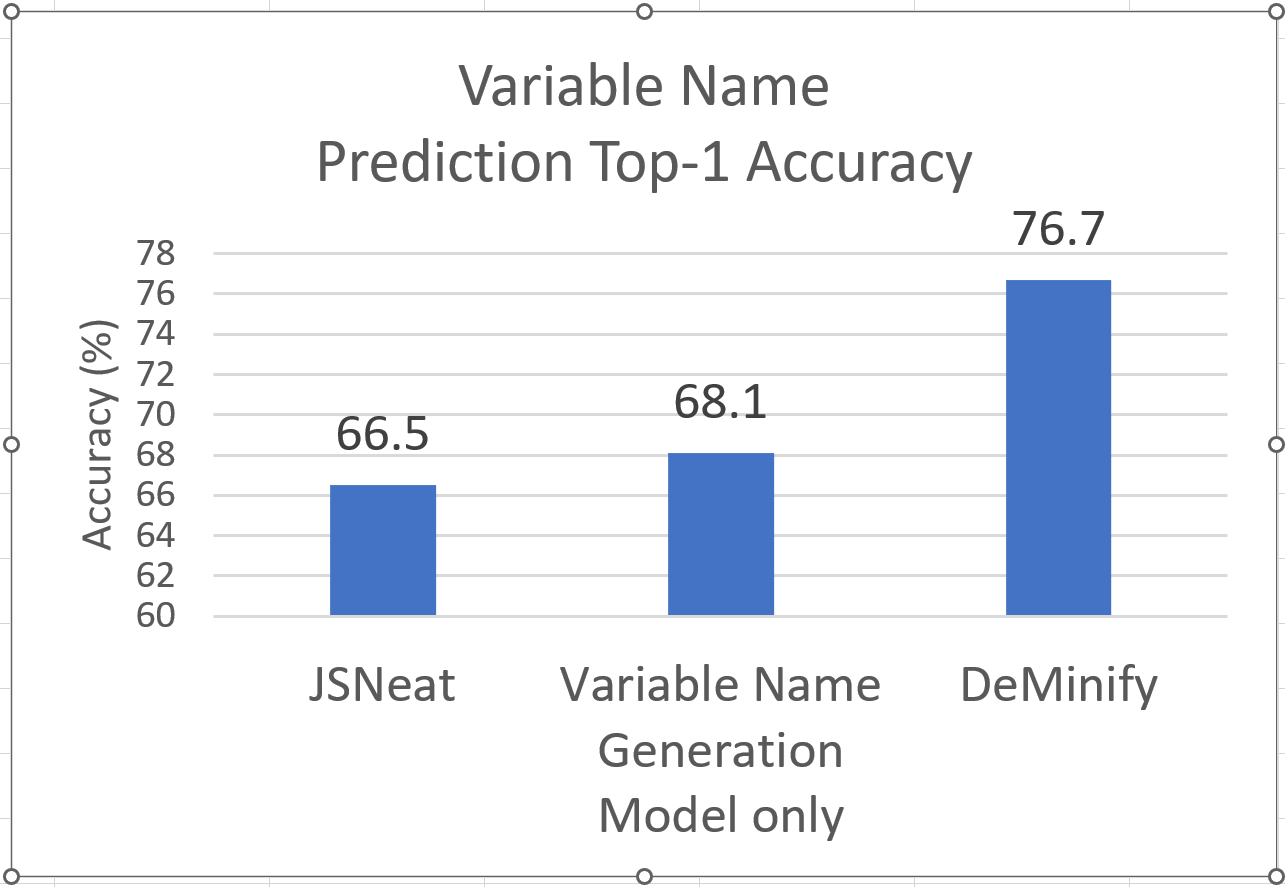
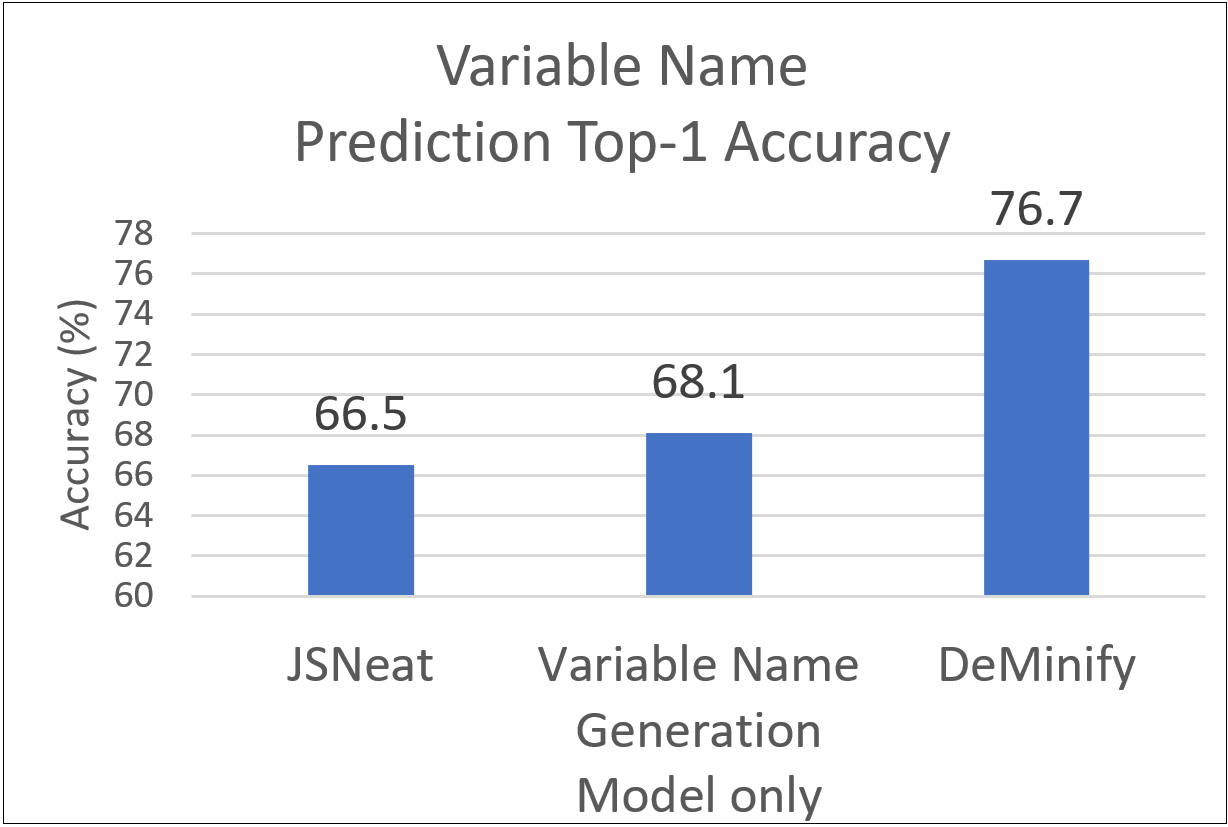
done with RQs

diff --git a/sections/models-result.tex b/sections/models-result.tex
@@ -1,22 +1,51 @@
 \subsubsection{Impact of Graph Models}
 \label{sec:models}
 
-\begin{figure}[thbp]
-\begin{center}
-\includegraphics[width=2.6in]{figures/sensi-models-name}
-\vspace{-8pt}
-\caption{RQ3. Impact of Graph Model on Variable Name Prediction}
-\label{models-name-result}
-{\bf L-GCN}: Label Graph Convolutional Network, {\bf EE-GCN}: Edge-Enhanced Graph Convolutional Network, {\bf GCNmf}: Graph Convolutional Network - Missing Features
-\end{center}
-\end{figure}
+%\begin{figure}[thbp]
+%\begin{center}
+%\includegraphics[width=2.6in]{figures/sensi-models-name}
+%\vspace{-8pt}
+%\caption{RQ3. Impact of Graph Model on Variable Name Prediction}
+%\label{models-name-result}
+%{\bf L-GCN}: Label Graph Convolutional Network, {\bf EE-GCN}: Edge-Enhanced Graph Convolutional Network, {\bf GCNmf}: Graph Convolutional Network - Missing Features
+%\end{center}
+%\end{figure}
 
-\begin{figure}[thbp]
-\begin{center}
-\includegraphics[width=2.6in]{figures/sensi-models-type}
-\vspace{-8pt}
-\caption{RQ3. Impact of Graph Model on Variable Type Prediction}
-\label{models-type-result}
-{\bf L-GCN}: Label Graph Convolutional Network, {\bf EE-GCN}: Edge-Enhanced Graph Convolutional Network, {\bf GCNmf}: Graph Convolutional Network - Missing Features
-\end{center}
-\end{figure}
+%\begin{figure}[thbp]
+%\begin{center}
+%\includegraphics[width=2.6in]{figures/sensi-models-type}
+%\vspace{-8pt}
+%\caption{RQ3. Impact of Graph Model on Variable Type Prediction}
+%\label{models-type-result}
+%{\bf L-GCN}: Label Graph Convolutional Network, {\bf EE-GCN}: Edge-Enhanced Graph Convolutional Network, {\bf GCNmf}: Graph Convolutional Network - Missing Features
+%\end{center}
+%\end{figure}
+
+\begin{table}[!ht]
+  \centering
+  \tabcolsep 2.5pt
+    \begin{tabular}{|l|l|l|}
+    \hline
+        Accuracy (\%) & Name Prediction & Type Prediction\\ \hline
+        Label-GCN+GCNmf & 68.5 & 71.1 \\ \hline
+        EE-GCN+GCNmf (DeMinify) & 76.7 & 79 \\ \hline
+    \end{tabular}
+    {\bf Label-GCN}: Label Graph Convolutional Network, {\bf EE-GCN}: Edge-Enhanced Graph Convolutional Network, {\bf GCNmf}: Graph Convolutional Network - Missing Features
+    \caption{Impact of EE-GCN on Accuracy}
+    \label{tab:sensi-graph}
+\end{table}
+
+Table~\ref{tab:sensi-graph} shows the accuracies of the variant model
+as we replaced the graph neural network EE-GCN with the Label Graph
+Convolutional Network (Label-GCN)~\cite{label-gcn}. We did not replace
+GCNmf because it is the core component in our solution, which
+formulates the name/type recovery as the prediction of missing
+features. As seen, Edge-Enhanced GCN helps improve accuracy more than
+Label-GCN. EE-GCN enables the modeling of different types of edges
+because it handles different edge types in different channels, while
+Label-GCN just integrates the edge information as simple labels.
+This is crucial for our problem in which the type dependencies
+and the variable relations are well captured.
+
+
+%2. EEGCN is a more advanced model by representing the edge in $N$ channels instead of a simple label compared with label-GCN (EEGCN+GCNmf+RG compared with LGCN+GCNmf+RG on both two tables)

diff --git a/sections/graphs-result.tex b/sections/graphs-result.tex
@@ -27,5 +27,25 @@ same neural network architecture, however, changed different input
 graphs extracted from source code. In addition to the graphs used in
 {\tool} (relation graph (RG), type dependency graph (TDG)), we also
 experimented with program dependence graph (PDG) and code property
-graph (CPG)~\cite{tien} because they are popularly used in several
+graph (CPG)~\cite{CPG-2014} because they are popularly used in several
 machine learning approaches for source code.
+
+As seen in Figure~\ref{graph-name-result} and
+Figure~\ref{graph-type-result}, for variable name prediction, RG helps
+the model more than TDG and for variable type prediction, TDG helps
+the model more than RG. This is expected because each of them is
+designed toward capturing the key features for its problem. For the
+dual tasks, the combined graph (RG+TDG) in {\tool} yields the highest
+accuracies in both name prediction and type prediction. In contrast,
+PDG capturing the dependencies among statements/expressions are not
+specifically designed for handling variable names/types, thus, did not
+yield high accuracy as TDG, RG, and CG. An interesting observation is
+that CPG, which contains lexical, syntax, and dependency information,
+did not help the model as much as PDG and others. It seems that CPG
+contains too much irrelevant information for name/type prediction.
+
+
+
+%1. Code property graph is complex but cannot represent the variable relationships and type changes clearly (EEGCN+GCNmf+CPG compared with EEGCN+GCNmf+RG on name prediction; EEGCN+GCNmf+CPG compared with EEGCN+GCNmf+TDG on type prediction)
+
+

diff --git a/sections/rq3-results.tex b/sections/rq3-results.tex
@@ -51,10 +51,10 @@
 %	\end{center}
 %\end{table}
 
-1. Code property graph is complex but cannot represent the variable relationships and type changes clearly (EEGCN+GCNmf+CPG compared with EEGCN+GCNmf+RG on name prediction; EEGCN+GCNmf+CPG compared with EEGCN+GCNmf+TDG on type prediction)
 
-2. EEGCN is a more advanced model by representing the edge in $N$ channels instead of a simple label compared with label-GCN (EEGCN+GCNmf+RG compared with LGCN+GCNmf+RG on both two tables)
 
-3. RG is more useful on name prediction, while TDG is more useful on type prediction (EEGCN+GCNmf+RG compared with EEGCN+GCNmf+TDG)
 
-4. EEGCN+GCNmf+CG, our final {\tool} can perform both goods on name prediction and type prediction tasks. If we want to make our model do two tasks together, CG is the best choice for the graph.
+
+%3. RG is more useful on name prediction, while TDG is more useful on type prediction (EEGCN+GCNmf+RG compared with EEGCN+GCNmf+TDG)
+
+%4. EEGCN+GCNmf+CG, our final {\tool} can perform both goods on name prediction and type prediction tasks. If we want to make our model do two tasks together, CG is the best choice for the graph.

diff --git a/sections/rq1-results.tex b/sections/rq1-results.tex
@@ -23,7 +23,7 @@
 
 \begin{figure}[thbp]
 \begin{center}
-\includegraphics[width=3.2in]{figures/name-prediction-result}
+\includegraphics[width=3.2in]{figures/name-prediction-result-2}
 \vspace{-8pt}
 \caption{RQ1. Top-1 Accuracy on Variable Name Prediction}
 \label{name-prediction-result}
